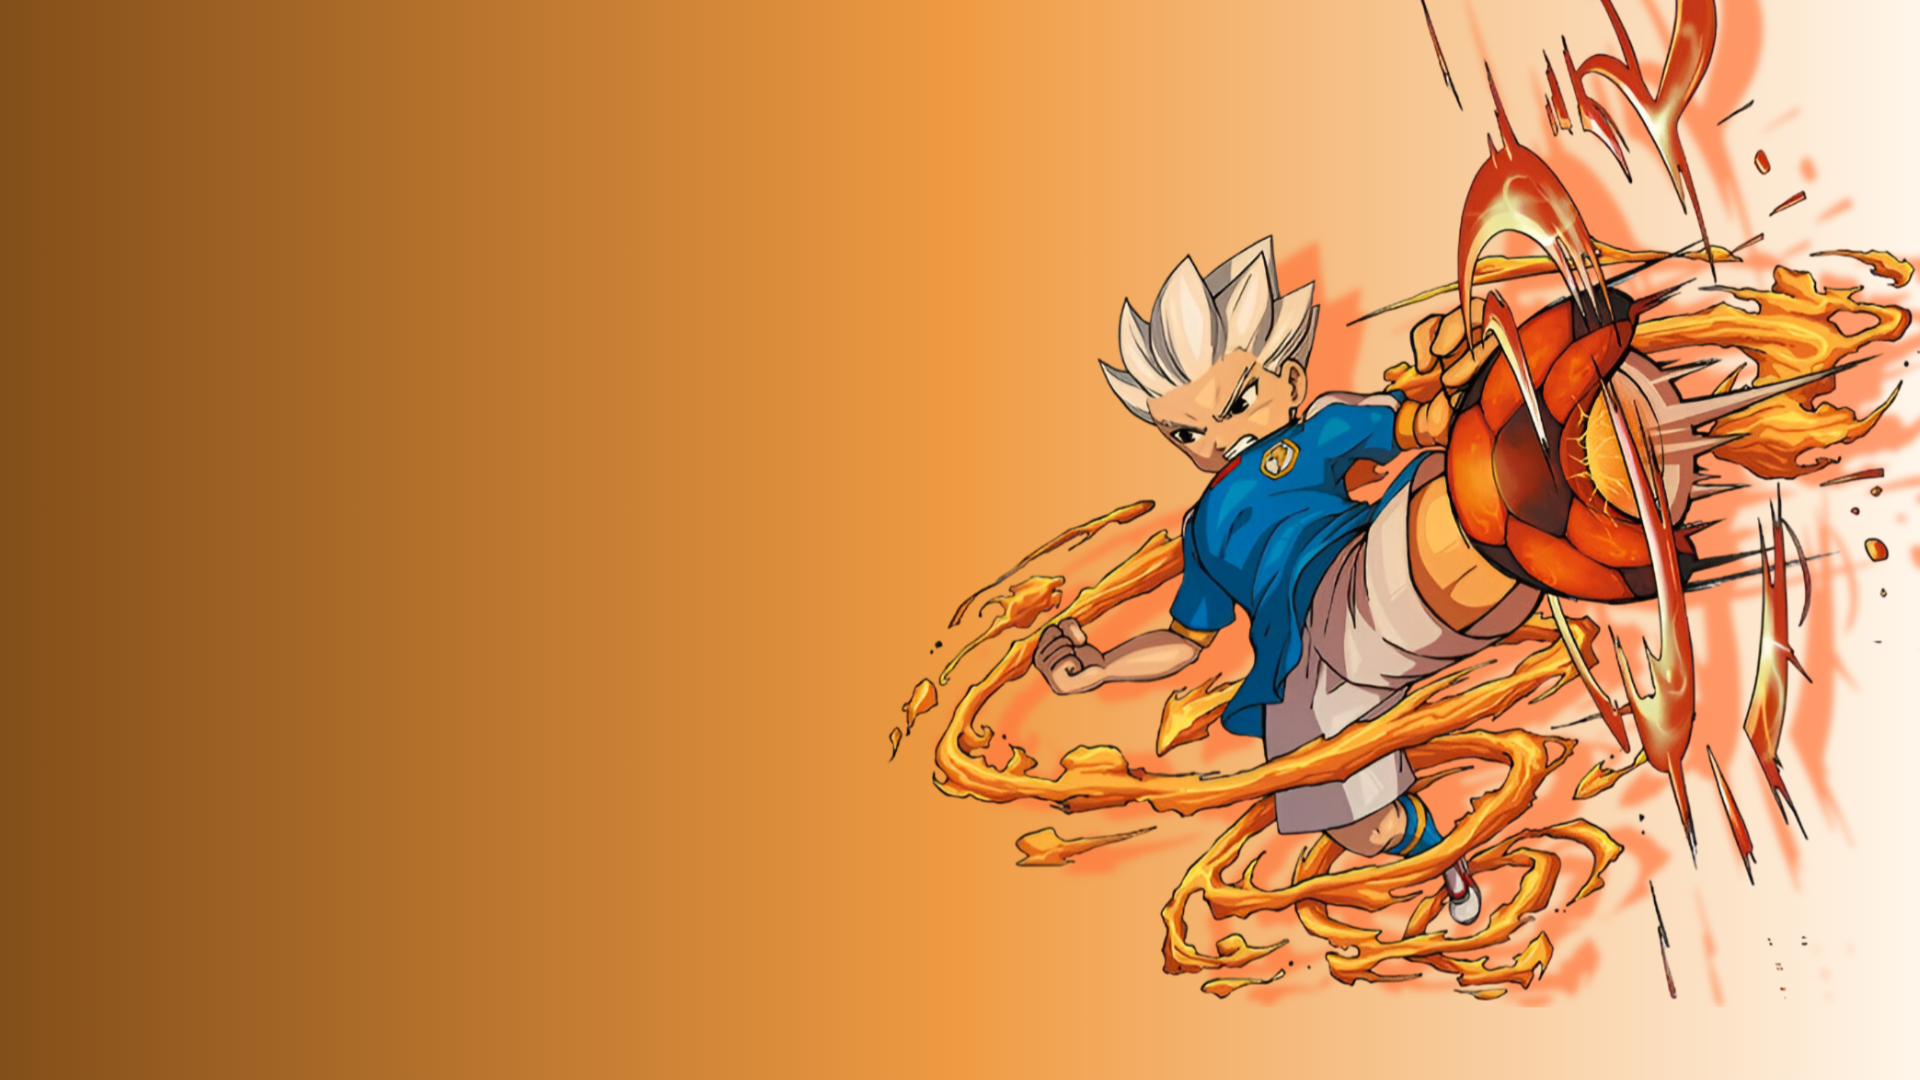
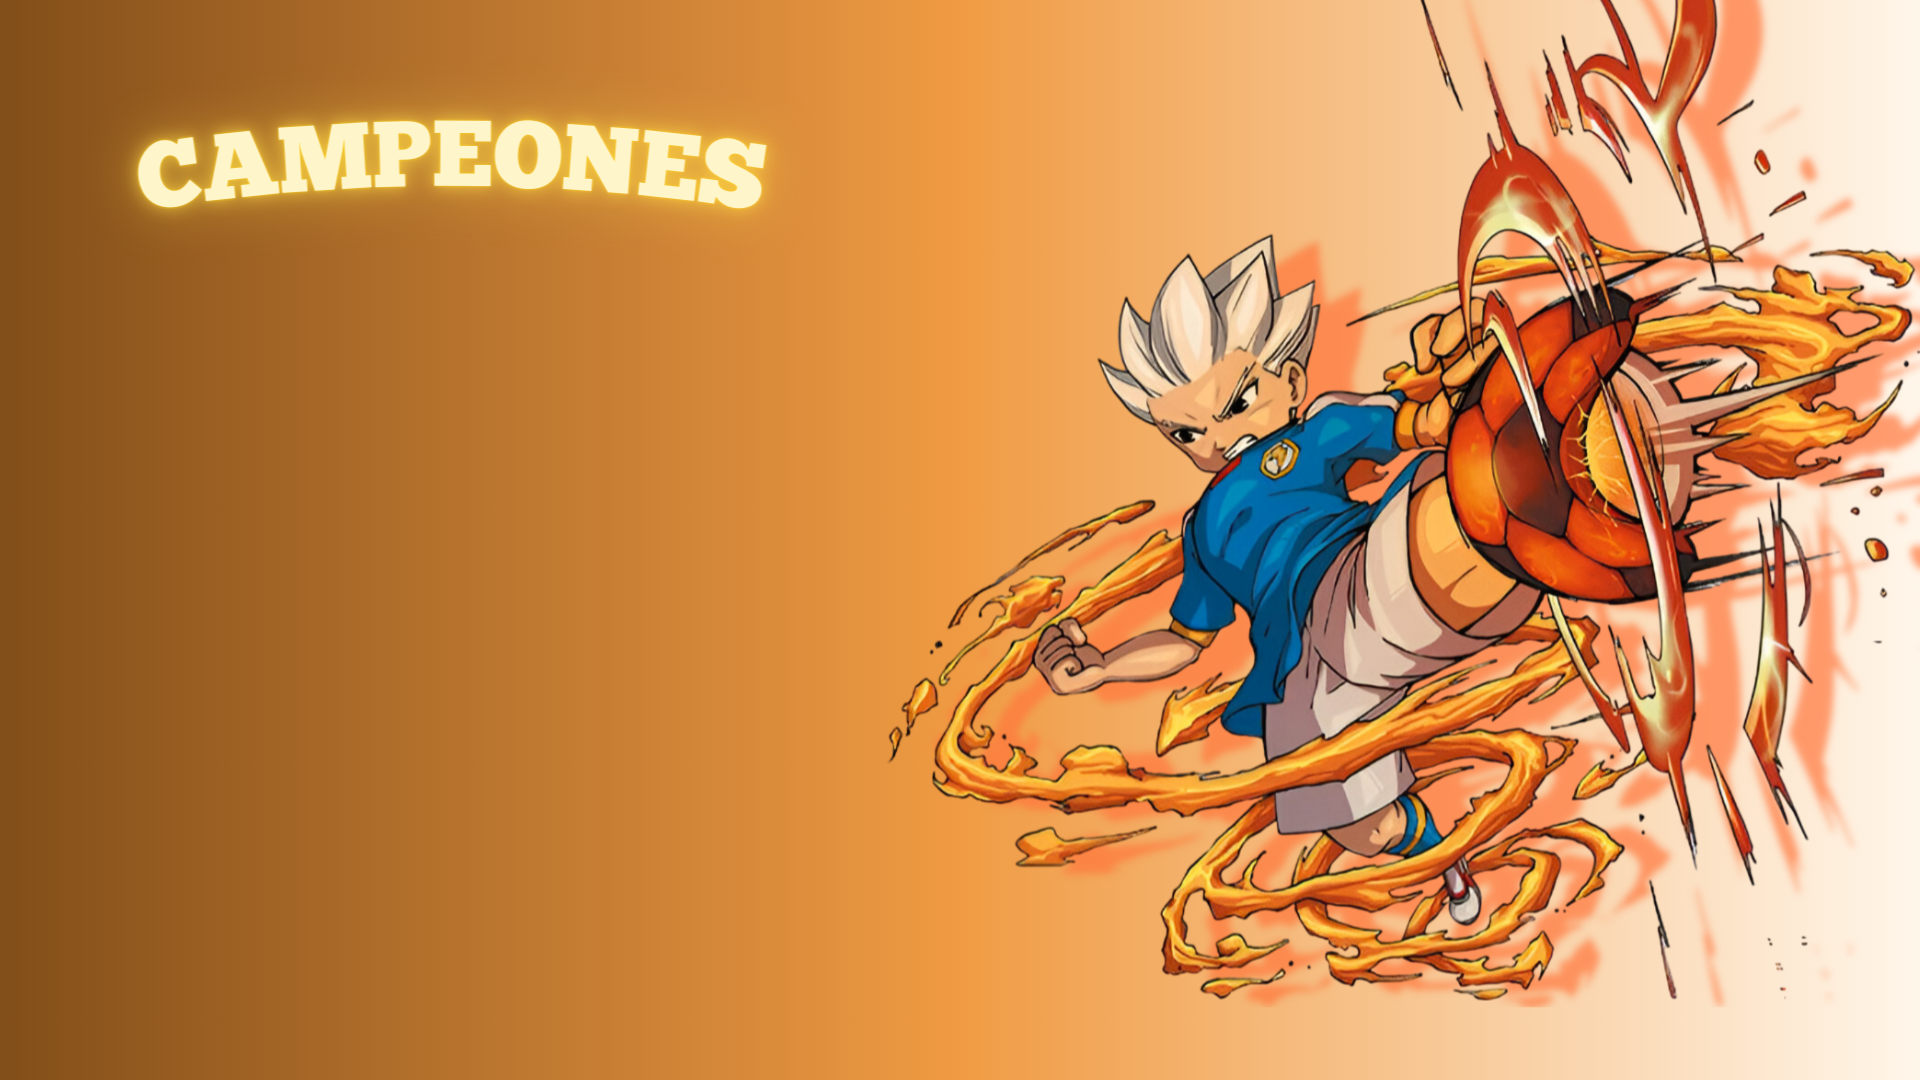
Fondo ranking cambiado

Changed region(s): [[0.0625, 0.0917, 0.4062, 0.2139]]

diff --git a/src/com/penaltyeleven/pantallainicial/Ranking.java b/src/com/penaltyeleven/pantallainicial/Ranking.java
@@ -15,7 +15,6 @@ public class Ranking extends InterfazMaestra {
     private MusicManager musicManager = new MusicManager();
     private JButton volver, fondo;
     private JPanel rankingPanel;
-    private JLabel puesto1;
     public static final Color colorBase = new Color(25, 25, 25);
     public static final Font fuente = new Font("Rubik", Font.PLAIN, 20);
     public static final Color colorTexto = new Color(255, 255, 255);
@@ -49,23 +48,14 @@ public class Ranking extends InterfazMaestra {
 
         // Crear un área de texto para mostrar el ranking
         rankingPanel = new JPanel();
-        rankingPanel.setBounds(100, 150, 280, 500); // Ajusta estos valores según tus necesidades
+        rankingPanel.setBounds(100, 170, 280, 500); // Ajusta estos valores según tus necesidades
         rankingPanel.setOpaque(false);
         rankingPanel.setLayout(new BoxLayout(rankingPanel, BoxLayout.Y_AXIS));
 
-        // Crear un título para el ranking
-        puesto1 = new JLabel("Tabla de Campeones Máximos");
-        puesto1.setBounds(100, 100, 500, 50); // Ajusta estos valores según tus necesidades
-        puesto1.setFont(new Font("Rubik", Font.BOLD, 30));
-        puesto1.setForeground(Color.BLACK);
-        puesto1.setHorizontalAlignment(JLabel.LEFT);
-        puesto1.setVerticalAlignment(JLabel.TOP);
-        puesto1.setOpaque(false);
 
         // Añadir botones al panel
         panel.add(volver);
         panel.add(rankingPanel);
-        panel.add(puesto1);
         panel.add(fondo);
         add(panel);
 
